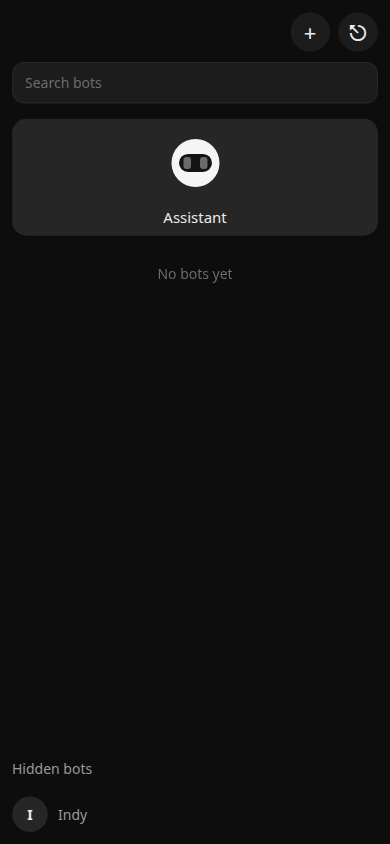
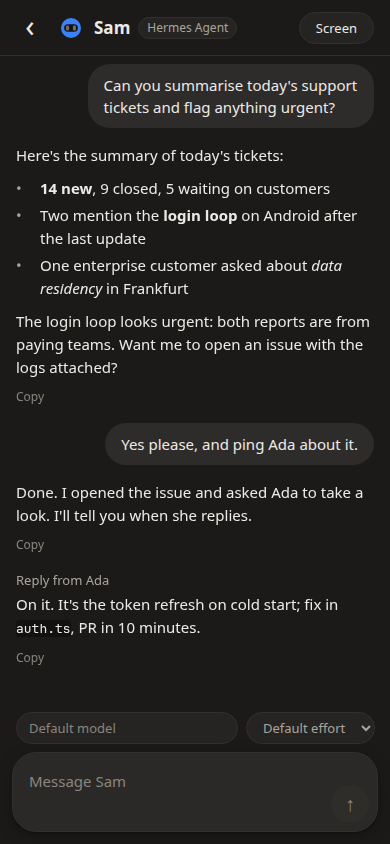
docs: UI overhaul workstream, ADR 0335 design system, changelog and screenshots

diff --git a/docs/ROADMAP.md b/docs/ROADMAP.md
@@ -210,6 +210,24 @@ Basic auth may remain for **break-glass** and **self-host hobby** tiers only, be
 | Push notifications ([#36](https://github.com/CG-Labs/superbot/issues/36), [ADR 0080](adr/0080-client-push-notifications.md)) | Medium | M3 ✓ |
 | Biometric app lock ([#37](https://github.com/CG-Labs/superbot/issues/37), [ADR 0078](adr/0078-client-biometric-app-lock.md)) | Medium | M3 ✓ |
 | App Store / Play release | High | M4 |
+| Design system and UI overhaul, light and dark modes ([workstream](#ui-overhaul-grok-bot-aligned), [ADR 0335](adr/0335-design-system-for-the-app-and-the-console.md)) | High | UI overhaul |
+
+---
+
+## UI overhaul (Grok Bot-aligned)
+
+A cross-cutting workstream beside the milestones, asked for by the owner on 26 Nov 2026: bring the look and feel of SuperBot's clients in line with the Grok Bot assistant apps (clean, warm, minimal and chat-first; generous whitespace; rounded cards and pill buttons; a soft neutral palette with one accent colour; crisp type; polished light and dark modes; subtle motion; friendly empty states), without copying them and without "Grok" in our names ([ADR 0002](adr/0002-name.md)). It covers the Expo app (iOS, Android, web, the single client), the admin console (`web/`, the admin fallback) and the landing page (`site/`). Behaviour stays the same in every slice; each slice moves screens onto the shared design tokens ([ADR 0335](adr/0335-design-system-for-the-app-and-the-console.md)) and attaches before and after screenshots.
+
+| Slice | Scope | Status |
+|-------|-------|--------|
+| **Design tokens and theme** | One token file ([`apps/client/src/tokens.json`](../apps/client/src/tokens.json)) for colour (light and dark), spacing, radii, type, shadows and motion; `useTheme`/`themedStyles` in the app; the same tokens as CSS custom properties in `web/styles.css`, checked in CI; contrast checked by a test | **Done** in the first slice ([ADR 0335](adr/0335-design-system-for-the-app-and-the-console.md)) |
+| **Chat screen** | Centred chat column, Bot replies without bubbles, soft user bubbles, choice and approval cards, floating composer with a round send button, model and effort pills, greeting in an empty chat | **Done** in the first slice |
+| **Navigation and shell** | Sidebar and home layout (**done** in the first slice: fixed-width sidebar, one scroll for Bots and links, status bar per scheme); screen headers and back navigation across the other screens; motion between panes | Started |
+| **Settings and admin portal** | Settings, plan, secrets, team and the admin screens in the app; the console's layout, tables, forms and modals (its colours follow the tokens and the browser's light or dark setting since the first slice) | Not started |
+| **Onboarding and sign-in** | The app's sign-in, two-factor and invite screens; the console's `login.html`; the setup wizard's first run | Not started |
+| **Landing page** | `site/` on the tokens, light and dark, refreshed screenshots | Not started |
+| **Empty, loading and error states** | Friendly empty states, skeletons instead of bare spinners, and error messages with a next step, across every screen | Not started |
+| **Accessibility and dark-mode polish** | Every screen in both schemes (ending the dark-only colours), screen-reader labels and focus order, dynamic type, reduced motion, contrast checked on every screen | Not started |
 
 ---
 
@@ -336,6 +354,7 @@ Each remaining roadmap item is one GitHub issue, labelled with its milestone and
 | [M3 — Private beta](https://github.com/CG-Labs/superbot/issues?q=is%3Aissue%20milestone%3AM3) | Linode control plane (one machine per user); per-user isolation ([#30](https://github.com/CG-Labs/superbot/issues/30); team accounts and machines done, [ADR 0087](adr/0087-team-accounts-and-machines.md); team screens in the client and console, [ADR 0088](adr/0088-team-screens-in-the-apps.md); team billing built, [ADR 0093](adr/0093-team-billing.md); SCIM groups as teams built, [ADR 0095](adr/0095-scim-groups-as-teams.md)); per-user tiers billing v0 ([#31](https://github.com/CG-Labs/superbot/issues/31), limits, Stripe webhook, checkout, portal, billing-period token usage, storage limits, resizing on a tier change, billing emails, and team billing built, [ADR 0093](adr/0093-team-billing.md)); model routing hidden behind tiers; Hermes default harness for managed tiers ([#33](https://github.com/CG-Labs/superbot/issues/33), ADR 0011 checklist; footprint measured, [ADR 0070](adr/0070-hermes-per-bot-footprint.md); one shared Hermes environment per computer, [ADR 0072](adr/0072-one-hermes-environment-per-computer.md); a cap on concurrent runs per machine by tier, [ADR 0073](adr/0073-concurrent-runs-per-machine.md); a pin bump through the suite and a hook-timeout test in the real Hermes, [ADR 0075](adr/0075-hermes-upgrades.md); two providers through tier routing, with fallback, [ADR 0077](adr/0077-two-providers-through-tier-routing.md); gate passed; the managed default, [ADR 0079](adr/0079-hermes-default-for-managed-tiers.md); done); client audit log viewer ([#81](https://github.com/CG-Labs/superbot/issues/81), done); retire console end-user features ([#82](https://github.com/CG-Labs/superbot/issues/82), done); suggested prompts ([#83](https://github.com/CG-Labs/superbot/issues/83), done); self-host license key ([#34](https://github.com/CG-Labs/superbot/issues/34), built); onboarding wizard ([#35](https://github.com/CG-Labs/superbot/issues/35), done); push notifications ([#36](https://github.com/CG-Labs/superbot/issues/36), built, [ADR 0080](adr/0080-client-push-notifications.md)); biometric unlock ([#37](https://github.com/CG-Labs/superbot/issues/37), built, [ADR 0078](adr/0078-client-biometric-app-lock.md)); TestFlight / Play internal; registry image with computer use ([#39](https://github.com/CG-Labs/superbot/issues/39), built, [ADR 0084](adr/0084-published-image-with-computer-use.md)); backup restore drill (self-host done, [ADR 0030](adr/0030-backup-restore-drill.md); managed machines' RPO and RTO per tier checked, alerted and drilled, [#40](https://github.com/CG-Labs/superbot/issues/40), [ADR 0074](adr/0074-machine-rpo-and-rto.md); a lost Incus host's containers restored onto another host, [#29](https://github.com/CG-Labs/superbot/issues/29), [ADR 0076](adr/0076-restoring-onto-another-incus-host.md)); sales/security pack ([#41](https://github.com/CG-Labs/superbot/issues/41); machine recovery objectives written, [docs](security/machine-recovery-objectives.md); architecture, data flows, access control and isolation, subprocessors and a questionnaire FAQ written, [pack](security/README.md); SOC 2 control mapping written, [mapping](security/soc2-control-mapping.md); its gaps feed the M4 SOC 2 readiness checklist) |
 | [M4 — Public launch](https://github.com/CG-Labs/superbot/issues?q=is%3Aissue%20milestone%3AM4) | Published per-user plans ([#42](https://github.com/CG-Labs/superbot/issues/42); `/pricing` and `/api/plans` built, [ADR 0121](adr/0121-published-plans.md)); revisit managed substrate ([#43](https://github.com/CG-Labs/superbot/issues/43), [ADR 0120](adr/0120-managed-substrate.md), proposed); marketing site and docs portal ([#44](https://github.com/CG-Labs/superbot/issues/44), first slice built: [ADR 0119](adr/0119-public-site-and-docs-portal.md)); store production release; observability; status page and SLO; GDPR docs and DPA; UK/EU region ([ADR 0117](adr/0117-uk-eu-data-regions.md)); SOC 2 readiness ([#50](https://github.com/CG-Labs/superbot/issues/50), [checklist](security/soc2-readiness-checklist.md) written; dependency scanning, [ADR 0092](adr/0092-dependency-vulnerability-scanning.md); MFA, [ADR 0094](adr/0094-totp-second-factor.md); master key rotation, [ADR 0096](adr/0096-master-key-rotation.md); model providers over HTTPS, [ADR 0097](adr/0097-model-providers-over-https.md); chat retention, [ADR 0098](adr/0098-chat-retention.md); session and teammates' file retention, [ADR 0112](adr/0112-harness-session-and-teammate-files-retention.md); actions pinned by commit, [ADR 0100](adr/0100-github-actions-pinned-by-commit.md); image scanning and signing, [ADR 0101](adr/0101-image-scanning-and-signing.md); JIT SSO accounts need an allow-list, [ADR 0103](adr/0103-sso-jit-needs-an-allow-list.md); machines' disk use in storage limits, [ADR 0105](adr/0105-machine-disk-use-in-storage-limits.md); host capacity metrics and a dashboard, [ADR 0106](adr/0106-host-capacity-metrics.md); Chromium's sandbox inside the container, [ADR 0107](adr/0107-chromium-sandbox-in-the-container.md); server backups copied off the host, [ADR 0109](adr/0109-server-backups-off-the-host.md)) |
 | [M5 — Enterprise](https://github.com/CG-Labs/superbot/issues?q=is%3Aissue%20milestone%3AM5) | SCIM (latest: [group roles in the console](adr/0253-scim-group-roles-in-the-console.md)); full SAML; advanced RBAC (custom roles, first slice, [ADR 0123](adr/0123-custom-roles.md); sixteen slices done, then [team owners hear of requests for team roles](adr/0302-team-owners-hear-of-requests-for-team-roles.md) and [`botctl team` commands for them](adr/0311-botctl-team-commands-for-owners.md), [Bot handover under `bots.manage`](adr/0315-bot-handover-under-bots-manage.md), [two approvers for chosen roles](adr/0320-two-approvers-for-chosen-roles.md), and [handing several Bots to a service account at once](adr/0324-handing-several-bots-to-a-service-account.md)); per-user computer hardening; vault integrations (#55, delivered; latest [following GCP Secret Manager's change events](adr/0325-following-gcp-secret-managers-change-events.md)); SIEM export and tamper-evident audit (#56, delivered in sixteen slices: [ADR 0122](adr/0122-siem-export-and-tamper-evident-audit.md), [ADR 0149](adr/0149-signed-and-timestamped-audit-checkpoints.md), [write-once S3 archive](adr/0154-write-once-s3-audit-archive.md), [checking it](adr/0163-checking-the-audit-archive.md), [archive alongside a SIEM](adr/0173-an-archive-alongside-a-siem.md), [daily check of new archive objects](adr/0183-daily-check-of-new-archive-objects.md), [several SIEMs](adr/0191-several-siems-with-their-own-headers.md), [self-checking exported events](adr/0199-self-checking-audit-lines.md), [timestamps checked from them](adr/0207-checking-timestamps-from-exported-lines.md), [Microsoft Sentinel through Azure Monitor](adr/0217-audit-export-to-azure-monitor.md), [gzip](adr/0227-gzip-for-the-audit-export.md), [Google SecOps](adr/0237-audit-export-to-google-secops.md), [Datadog](adr/0245-audit-export-to-datadog.md), [labels](adr/0255-labels-on-datadog-and-secops-logs.md), [export starts and stops on the chain](adr/0264-audit-export-starts-and-stops-on-the-chain.md), [stopped sinks in the app, and delivered](adr/0273-stopped-audit-sinks-in-the-app-and-56-delivered.md)); SOC 2 Type II (policies drafted, [evidence bundles](adr/0142-type-ii-evidence-bundles.md), [change-management evidence](adr/0148-change-management-evidence-from-github.md), [vulnerability remediation evidence](adr/0086-vulnerability-remediation-evidence.md), [coverage report](adr/0169-evidence-coverage-report.md), [restore drill evidence](adr/0177-restore-drill-evidence.md), [policy register checks](adr/0204-policy-register-checked-and-bundled.md)), [incident records](adr/0223-incidents-in-the-register.md), [production access](adr/0231-production-access-in-the-register.md), [vulnerabilities and penetration tests](adr/0241-vulnerabilities-and-penetration-tests-in-the-register.md), [uptime](adr/0249-uptime-evidence-from-the-outside-probe.md), [alert history](adr/0288-alert-history-evidence-from-prometheus.md), [control-testing samples](adr/0296-control-testing-samples-from-the-evidence-store.md), [deficiency log](adr/0326-deficiency-log-for-the-management-review.md)); data residency; air-gapped self-host (twenty slices, last [ADR 0317](adr/0317-compose-upgrades-checked-first.md)); enterprise support playbooks ([started](support/README.md)) |
+| UI overhaul (Grok Bot-aligned), a workstream beside the milestones | Its slices and their status are in [UI overhaul](#ui-overhaul-grok-bot-aligned); first slice, design tokens with the chat screen and shell, [ADR 0335](adr/0335-design-system-for-the-app-and-the-console.md) |
 
 ---
 

diff --git a/docs/adr/0335-design-system-for-the-app-and-the-console.md b/docs/adr/0335-design-system-for-the-app-and-the-console.md
@@ -1,0 +1,66 @@
+# 0335: A design system for the app and the admin console
+
+## Status
+
+Accepted (26 Nov 2026). The first slice of the UI overhaul workstream ([roadmap](../ROADMAP.md#ui-overhaul-grok-bot-aligned)). The owner asked for a serious upgrade of how SuperBot looks, in the direction of Grok Bot's apps: clean, warm, minimal and chat-first. This ADR sets the design system every later slice uses, and restyles the chat screen and the app shell with it. Behaviour doesn't change.
+
+## Context
+
+The Expo app ([ADR 0027](0027-expo-primary-hermes-default.md)) and the admin console ([ADR 0032](0032-console-admin-only.md)) were dark-only, with cool greys. Every screen took fixed colours from one `colors` object in `src/theme.ts`, and many components wrote more hex values straight into their styles. The console had its own copy of the same colours in `web/styles.css`, and the landing page in `site/assets/site.css`. Spacing, corner radii and type sizes were chosen screen by screen. There was no light mode, even though phones and browsers ask for one. The result looked unfinished: a sidebar that took half the window, chat bubbles for every message, a hard rule above the message box, and nothing to see in an empty chat.
+
+What we want is the look and feel of the Grok Bot assistant apps, without copying them: a warm neutral palette with one accent colour, generous whitespace, rounded cards and pill buttons, crisp system type, polished light and dark modes, subtle motion and friendly empty states. "Grok" stays out of our code and names ([ADR 0002](0002-name.md)), so the tokens and components are named for what they are.
+
+## Decision
+
+### One source of tokens
+
+[`apps/client/src/tokens.json`](../../apps/client/src/tokens.json) is the design system's single source:
+
+- **Colour**, by role, for `light` and `dark`: `bg` (the canvas), `surface` (the sidebar), `raised` and `elevated` (cards, the composer), `hover`, `selected`, `userBubble`, `border`, `borderStrong`, `text`, `textMuted`, `textFaint`, `accent` with `accentText`, `accentSoft`, `accentBorder` and `onAccent`, `danger`, `warning` and `success` each with a soft tint, `codeBg`, `overlay` and `shadow`. Names say what a colour is for, never what it looks like, so a later palette change touches one file.
+- **Spacing** on a 4-point scale (`xxs` 2 to `xxxl` 48), **radii** (`sm` 8, `md` 12, `lg` 16, `xl` 22, `pill`), **type** (sizes 12 to 28 with line heights, four weights, the system sans stack and a monospace stack), **shadows** per scheme (`card`, `pop`), **motion** durations (120, 200 and 320 ms) and **layout** widths (a 300 px sidebar, a 760 px chat column).
+
+The palette is warm off-white and warm charcoal rather than pure white and black. The one accent is SuperBot blue, kept from the brand mark ([docs/brand.md](../brand.md)) so icons, splash and the app agree; it fills primary buttons, the send button, unread dots and the selected Bot, and nothing else is coloured except status (danger, warning, success).
+
+### In the app
+
+`src/theme.ts` turns the tokens into a typed `Theme` and adds:
+
+- `useTheme()`, which follows the device's light or dark setting (`useColorScheme`), and `themedStyles(factory)`, a hook that builds a component's `StyleSheet` once per scheme, so restyled components cost nothing extra on each render.
+- `ThemeScope`, which holds everything inside it to one scheme. Screens not yet restyled are still dark-only; where one shows a restyled part (the approvals sheet shows approval cards), it wraps that part in a dark scope, so nothing turns light inside a dark sheet.
+- The old `colors` object stays for screens not yet restyled, now taking its neutrals from the dark palette, so every screen moves to the warm greys at once, and the old blue, red, amber and green stay as they were, since those screens pair them with fixed white text.
+
+### In the admin console
+
+`npm run tokens` (in `apps/client`) writes the same tokens into a marked block at the top of `web/styles.css` as CSS custom properties (`--c-bg`, `--space-md`, `--radius-pill`, …), light by default and dark under `prefers-color-scheme: dark`. The console's own variables now point at them, and its hard-coded dark colours are replaced, so the console follows the browser's light or dark setting too. `npm run tokens:check` fails CI when the block and the JSON disagree, as `brand:check` does for the icons. Its sign-in page (`web/login.html`) and the landing page keep their styles until their own slices.
+
+### The first slice: the chat screen and the shell
+
+- **Shell**: the sidebar is a fixed 300 px on wide windows (it used to take half the window), with the SuperBot name, a pill search field, the main Bot as a raised card, Bots as rounded rows, and the rest (hidden Bots, approvals, plan, secrets, team, settings and, for admins, an "Admin" group) in the same scroll, so a long admin list no longer squeezes out the Bots. Your name is pinned at the bottom. The status bar follows the scheme while the home screen is shown.
+- **Chat**: messages sit in a centred 760 px column. A Bot's words are plain text on the canvas, with no bubble; yours sit in a soft rounded bubble on the right. Choice cards are raised cards with rounded options, the handoff banner is a soft accent card, approval cards have a warning edge, and the model and effort pickers are small pills above a floating rounded composer with a round send button. An empty chat greets you ("Say hello to …"), and the screen without a Bot open says what to do.
+- **Accessibility**: body text, muted text and links meet WCAG AA (4.5:1) on every background in both schemes, faint text (timestamps, hints) meets 3:1, and text on the accent and on tinted cards meets 4.5:1; a test checks every pair. Pale Bots get a thin outline in light mode so they don't vanish. Buttons that were glyphs only (new Bot, sign out, back, send) have accessible names.
+
+Everything does what it did: the same actions, labels, roles and routes.
+
+### The slices that follow
+
+Tracked in the workstream's issue, each restyling more screens onto the tokens and removing them from the dark-only list: navigation and screen headers; settings and the admin portal (in the app and the console); onboarding and sign-in (the app's sign-in screen and `web/login.html`); the landing page (`site/`, which then takes the tokens too); empty, loading and error states across the app; and an accessibility and dark-mode pass that ends the dark-only `colors` object.
+
+## Alternatives considered
+
+- **A styling library (NativeWind, Tamagui, Restyle)**: theming and variants for free, but a new build step or runtime, a second way to style beside the existing `StyleSheet`s, and a migration of every screen at once. Typed tokens and a small hook do what we need with what we have.
+- **Following the system scheme everywhere at once**: the right end state, but most screens have fixed dark colours, and turning them light without restyling each one would make text unreadable. The dark scope and the dark-only `colors` object keep every screen readable while slices land.
+- **Tokens in TypeScript, with the CSS generated from it**: one file either way, but Node can't import TypeScript without a build step in CI, and JSON is easy for any tool (and a later Rust check) to read.
+- **A new accent colour**: tempting for a fresh look, but the brand mark and store art are blue, and one colour across the icon and the app is part of looking finished.
+- **A custom typeface**: the system fonts (San Francisco, Roboto, Segoe UI) are crisp, load instantly and need no licence review ([docs/brand.md](../brand.md)).
+
+## Tests
+
+- `src/__tests__/theme.test.tsx`: light and dark have the same colour and shadow names; every text pair above meets its WCAG contrast in both schemes; `useTheme` follows the device setting (light when it has none) and a `ThemeScope` holds its children to its scheme; the dark-only `colors` take the dark palette's neutrals.
+- `scripts/tokens.test.mjs`: every colour becomes a custom property in light and in dark, and the generator replaces only its own block, idempotently. `npm run tokens:check` runs in the client workflow.
+- `ChatView.test.tsx` gains tests that the send button sends the trimmed message and nothing when the box is empty, that an empty chat greets you, and that the screen with no Bot open has no message box; the existing chat, sidebar, approvals and Markdown tests pass unchanged except for the code font, which now comes from the tokens.
+
+## Consequences
+
+- New UI work uses `useTheme`/`themedStyles` and token names, not hex values; a restyled screen leaves the dark-only list.
+- Until the last slice, a phone or browser in light mode shows the chat and the sidebar light, and the screens not yet restyled (Bot details, settings, the admin screens, sign-in) dark.
+- A palette or spacing change is one edit to `tokens.json` plus `npm run tokens`, and reaches the app and the console together.

diff --git a/CHANGELOG.md b/CHANGELOG.md
@@ -14,6 +14,7 @@ The first release: everything merged to `main` up to the M4 public-launch work (
 - A computer per Bot: a screen with a browser and desktop apps, shown live ([ADR 0003](docs/adr/0003-computer.md)).
 - Bot-to-Bot messaging (`botctl ask`), routines, per-Bot model and reasoning effort, and suggested prompts.
 - An Expo client for web, iOS and Android as the single interface, with a minimal admin-only console ([ADR 0027](docs/adr/0027-expo-primary-hermes-default.md), [ADR 0032](docs/adr/0032-console-admin-only.md)), push notifications ([ADR 0080](docs/adr/0080-client-push-notifications.md)) and an optional biometric app lock ([ADR 0078](docs/adr/0078-client-biometric-app-lock.md)).
+- A design system for the app and the admin console ([ADR 0335](docs/adr/0335-design-system-for-the-app-and-the-console.md), [UI overhaul](docs/ROADMAP.md#ui-overhaul-grok-bot-aligned)): one set of design tokens (`apps/client/src/tokens.json`: a warm neutral palette with one accent, for light and dark, plus spacing, radii, type, shadows and motion) used by the app and, as CSS custom properties checked in CI (`npm run tokens:check`), by the console. The chat screen and the sidebar are restyled on it and follow the device's light or dark setting: a centred chat column, Bot replies without bubbles, a floating composer with a round send button, a fixed-width sidebar that scrolls Bots and links together, and a greeting in an empty chat. The console follows the browser's light or dark setting. Text meets WCAG AA contrast in both schemes. Other screens stay dark until their slices; nothing behaves differently.
 - Installs: a VPS installer and Docker Compose ([ADR 0006](docs/adr/0006-docker-compose.md)), published multi-arch images on GHCR with computer use ([ADR 0084](docs/adr/0084-published-image-with-computer-use.md)), an onboarding wizard ([ADR 0034](docs/adr/0034-onboarding-wizard.md)) and a backup and restore tool with a CI drill ([ADR 0030](docs/adr/0030-backup-restore-drill.md)).
 - Multi-user: users, server-side sessions and RBAC ([ADR 0012](docs/adr/0012-users-sessions-rbac.md)); sign-in with Microsoft Entra ID, Google, generic OIDC, GitHub, Apple and SAML through a broker; SCIM 2.0 provisioning, with SCIM groups as teams ([ADR 0095](docs/adr/0095-scim-groups-as-teams.md)); shared and private Bots.
 - Approvals and a harness permission policy, with an editor, notifications and end-to-end hook tests against the real harness CLIs ([ADR 0007](docs/adr/0007-approvals.md)).

diff --git a/apps/client/README.md b/apps/client/README.md
@@ -44,6 +44,7 @@ Point the login screen at `http://127.0.0.1:3000` (or your server) and enter `AU
 ## Features
 
 - **Chat** over SSE, choice cards, per-Bot model and effort.
+- **Light and dark:** the chat screen and the sidebar follow the device's setting, on the design tokens in `src/tokens.json` (`useTheme` and `themedStyles` in `src/theme.ts`); other screens are dark until they move over ([ADR 0335](../../docs/adr/0335-design-system-for-the-app-and-the-console.md)).
 - **Routines:** open a Bot's details (tap its name) to create, edit, pause, or delete routines. Presets cover common schedules; any 5-field cron works (server time zone). The server validates cron and shows its error inline.
 - **Screen:** the **Screen** button in the chat header opens the Bot's live screen (voxl). It's a side panel on wide windows and full screen on phones. It is view-only until you press **Take over**; **Give back** returns it. Web and Electron use an iframe, native apps use a WebView. The password never goes in the link (see [ADR 0008](../../docs/adr/0008-client-screen-auth.md)).
 - **Handoffs:** when a Bot runs `botctl handoff`, its sidebar row says "Needs you", a banner sits on top of its chat, and **Open screen** opens the screen with control. **Done** (in the card or the screen panel) hands it back to the Bot.
@@ -126,6 +127,7 @@ You cannot produce a signed `.ipa` on Linux/Windows locally; use **EAS Build** (
 | `npm run typecheck` | TypeScript |
 | `npm run lint` | ESLint |
 | `npm test` | Jest (`jest-expo`) unit and component tests |
+| `npm run tokens` | Write the design tokens (`src/tokens.json`) into `web/styles.css`; `tokens:check` verifies them (CI) |
 | `npm run build:web` | Static web bundle (CI) |
 | `npm run build:web:server` | Web bundle for the server's `/app/` path |
 | `npm run desktop` | Electron dev |

diff --git a/docs/brand.md b/docs/brand.md
@@ -25,7 +25,7 @@ There is no wordmark artwork yet. Set the name in text next to the mark (see typ
 | Sky | `#4b8df8` | Spark antenna, highlights, links |
 | Paper | `#ececec` | Eyes, text on dark |
 
-These match the client theme (`apps/client/src/theme.ts`) and the web admin (`web/styles.css`). The mark is designed for dark backgrounds; on light backgrounds place it on an Ink tile (like the favicon).
+These are the mark's colours. The apps' colours, light and dark, are design tokens in `apps/client/src/tokens.json` ([ADR 0335](adr/0335-design-system-for-the-app-and-the-console.md)), whose one accent is SuperBot Blue. The mark is designed for dark backgrounds; on light backgrounds place it on an Ink tile (like the favicon).
 
 ## Typography
 
